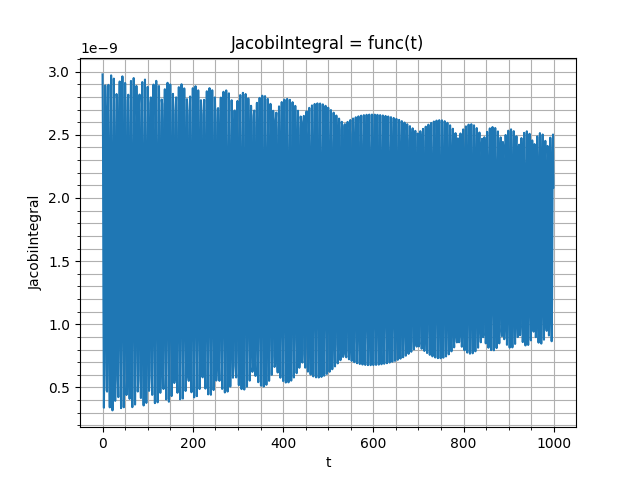
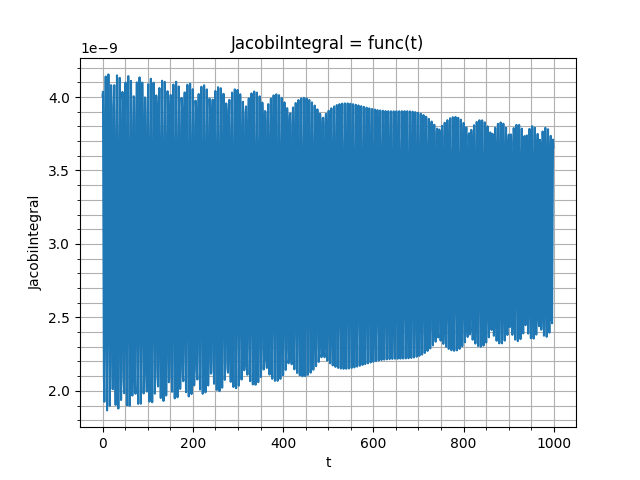
3c in process

Changed region(s): [[0.0625, 0.4062, 0.9062, 0.9062], [0.0625, 0.125, 0.9062, 0.375], [0.0625, 0.1875, 0.125, 0.2188]]

diff --git a/3с/modelling.py b/3с/modelling.py
@@ -1,4 +1,6 @@
 import matplotlib.pyplot as plt
+import numpy as np
+
 from rkSolver3c import RK4Model
 from init3c import *
 
@@ -56,10 +58,12 @@ E3 = np.cross(E1, E2)
 # интеграл Якоби h = 1/2 (omegaRel, J(omegaRel)) - 1/2 * omega0**2(E2, J(E2)) + 3/2(E3, J(E3))
 JacobiIntegral = np.zeros(len(t))
 for i in range(len(t)):
-
+    E3BD = quatBF[i].IF2BF(E3)
+    if i < 10:
+        print(E3BD)
     JacobiIntegral[i] = (
             0.5 * np.dot(omegaRelBF[i], Jtense.dot(omegaRelBF[i])) +
-            omega0[i]**2 * (1.5 * np.dot(E3, Jtense.dot(E3))) - 0.5 * np.dot(Jtense.dot(omegaOrbBF[i]), omegaOrbBF[i])
+            omega0[i]**2 * (1.5 * np.dot(E3BD, Jtense.dot(E3BD))) - 0.5 * np.dot(Jtense.dot(omegaOrbBF[i]), omegaOrbBF[i])
                         )
 
 kineticMoment = np.array([(np.cross(rVecIF[i], vVecIF[i]) + Jtense.dot(omegaBF[i]))  for i in range(len(t))])
@@ -111,8 +115,8 @@ ax = plt.figure().add_subplot(projection='3d')
 x = rVecIF[:, 0]
 y = rVecIF[:, 1]
 z = rVecIF[:, 2]
-ax.plot(x, y, z, label='parametric curve')
+ax.plot(np.round(x, 1), np.round(y,1), np.round(z, 1), label='parametric curve')
 plt.legend()
 plt.show()
-plt.savefig('3dOrbitGraph3c')
+plt.savefig('3dOrbitGraph3c.jpg')
 plt.close()

diff --git a/3с/init3c.py b/3с/init3c.py
@@ -24,9 +24,9 @@ t = np.arange(0.0, tFinal, dt) # массив эпох
 a0 = 7*1e3 # большая полуось (km)
 ecc0 = 0.0 # эксцентреситет - круговая орбита
 trueAnomaly0 = np.deg2rad(15) # истинная аномалия
-raan0 = np.deg2rad(45) # долгота восходящего узла
-inc0 = np.deg2rad(40)  # наклонение
-aop0 = np.deg2rad(120) # аргумент перицентра
+raan0 = np.deg2rad(0) # долгота восходящего узла
+inc0 = np.deg2rad(90)  # наклонение
+aop0 = np.deg2rad(0) # аргумент перицентра
 
 # гравитационный параметр
 mu = 398600.4418 # km^3 / sec^2

diff --git a/3с/orbitalToCartesian.py b/3с/orbitalToCartesian.py
@@ -21,8 +21,7 @@ def orbitalToCartesian(a, ecc, trueAnomaly, raan, inc, aop, mu):
     rotAop = np.array([[np.cos(aop), -np.sin(aop), 0],
                        [np.sin(aop), np.cos(aop), 0],
                        [0, 0, 1]])
-    rotCorrection = np.array([[0, 1, 0], [0, 0, 1], [1, 0, 0]], dtype=float)
-    rVecISC = rotAop.dot(rotInc.dot(rotRaan.dot(rotCorrection.dot(rVecOSC))))
-    velVecISC =  rotAop.dot(rotInc.dot(rotRaan.dot(rotCorrection.dot(velVecOSC))))
+    rVecISC = rotRaan.dot(rotInc.dot(rotAop.dot(rVecOSC)))
+    velVecISC =  rotRaan.dot(rotInc.dot(rotAop.dot(velVecOSC)))
     return rVecISC, velVecISC
 
